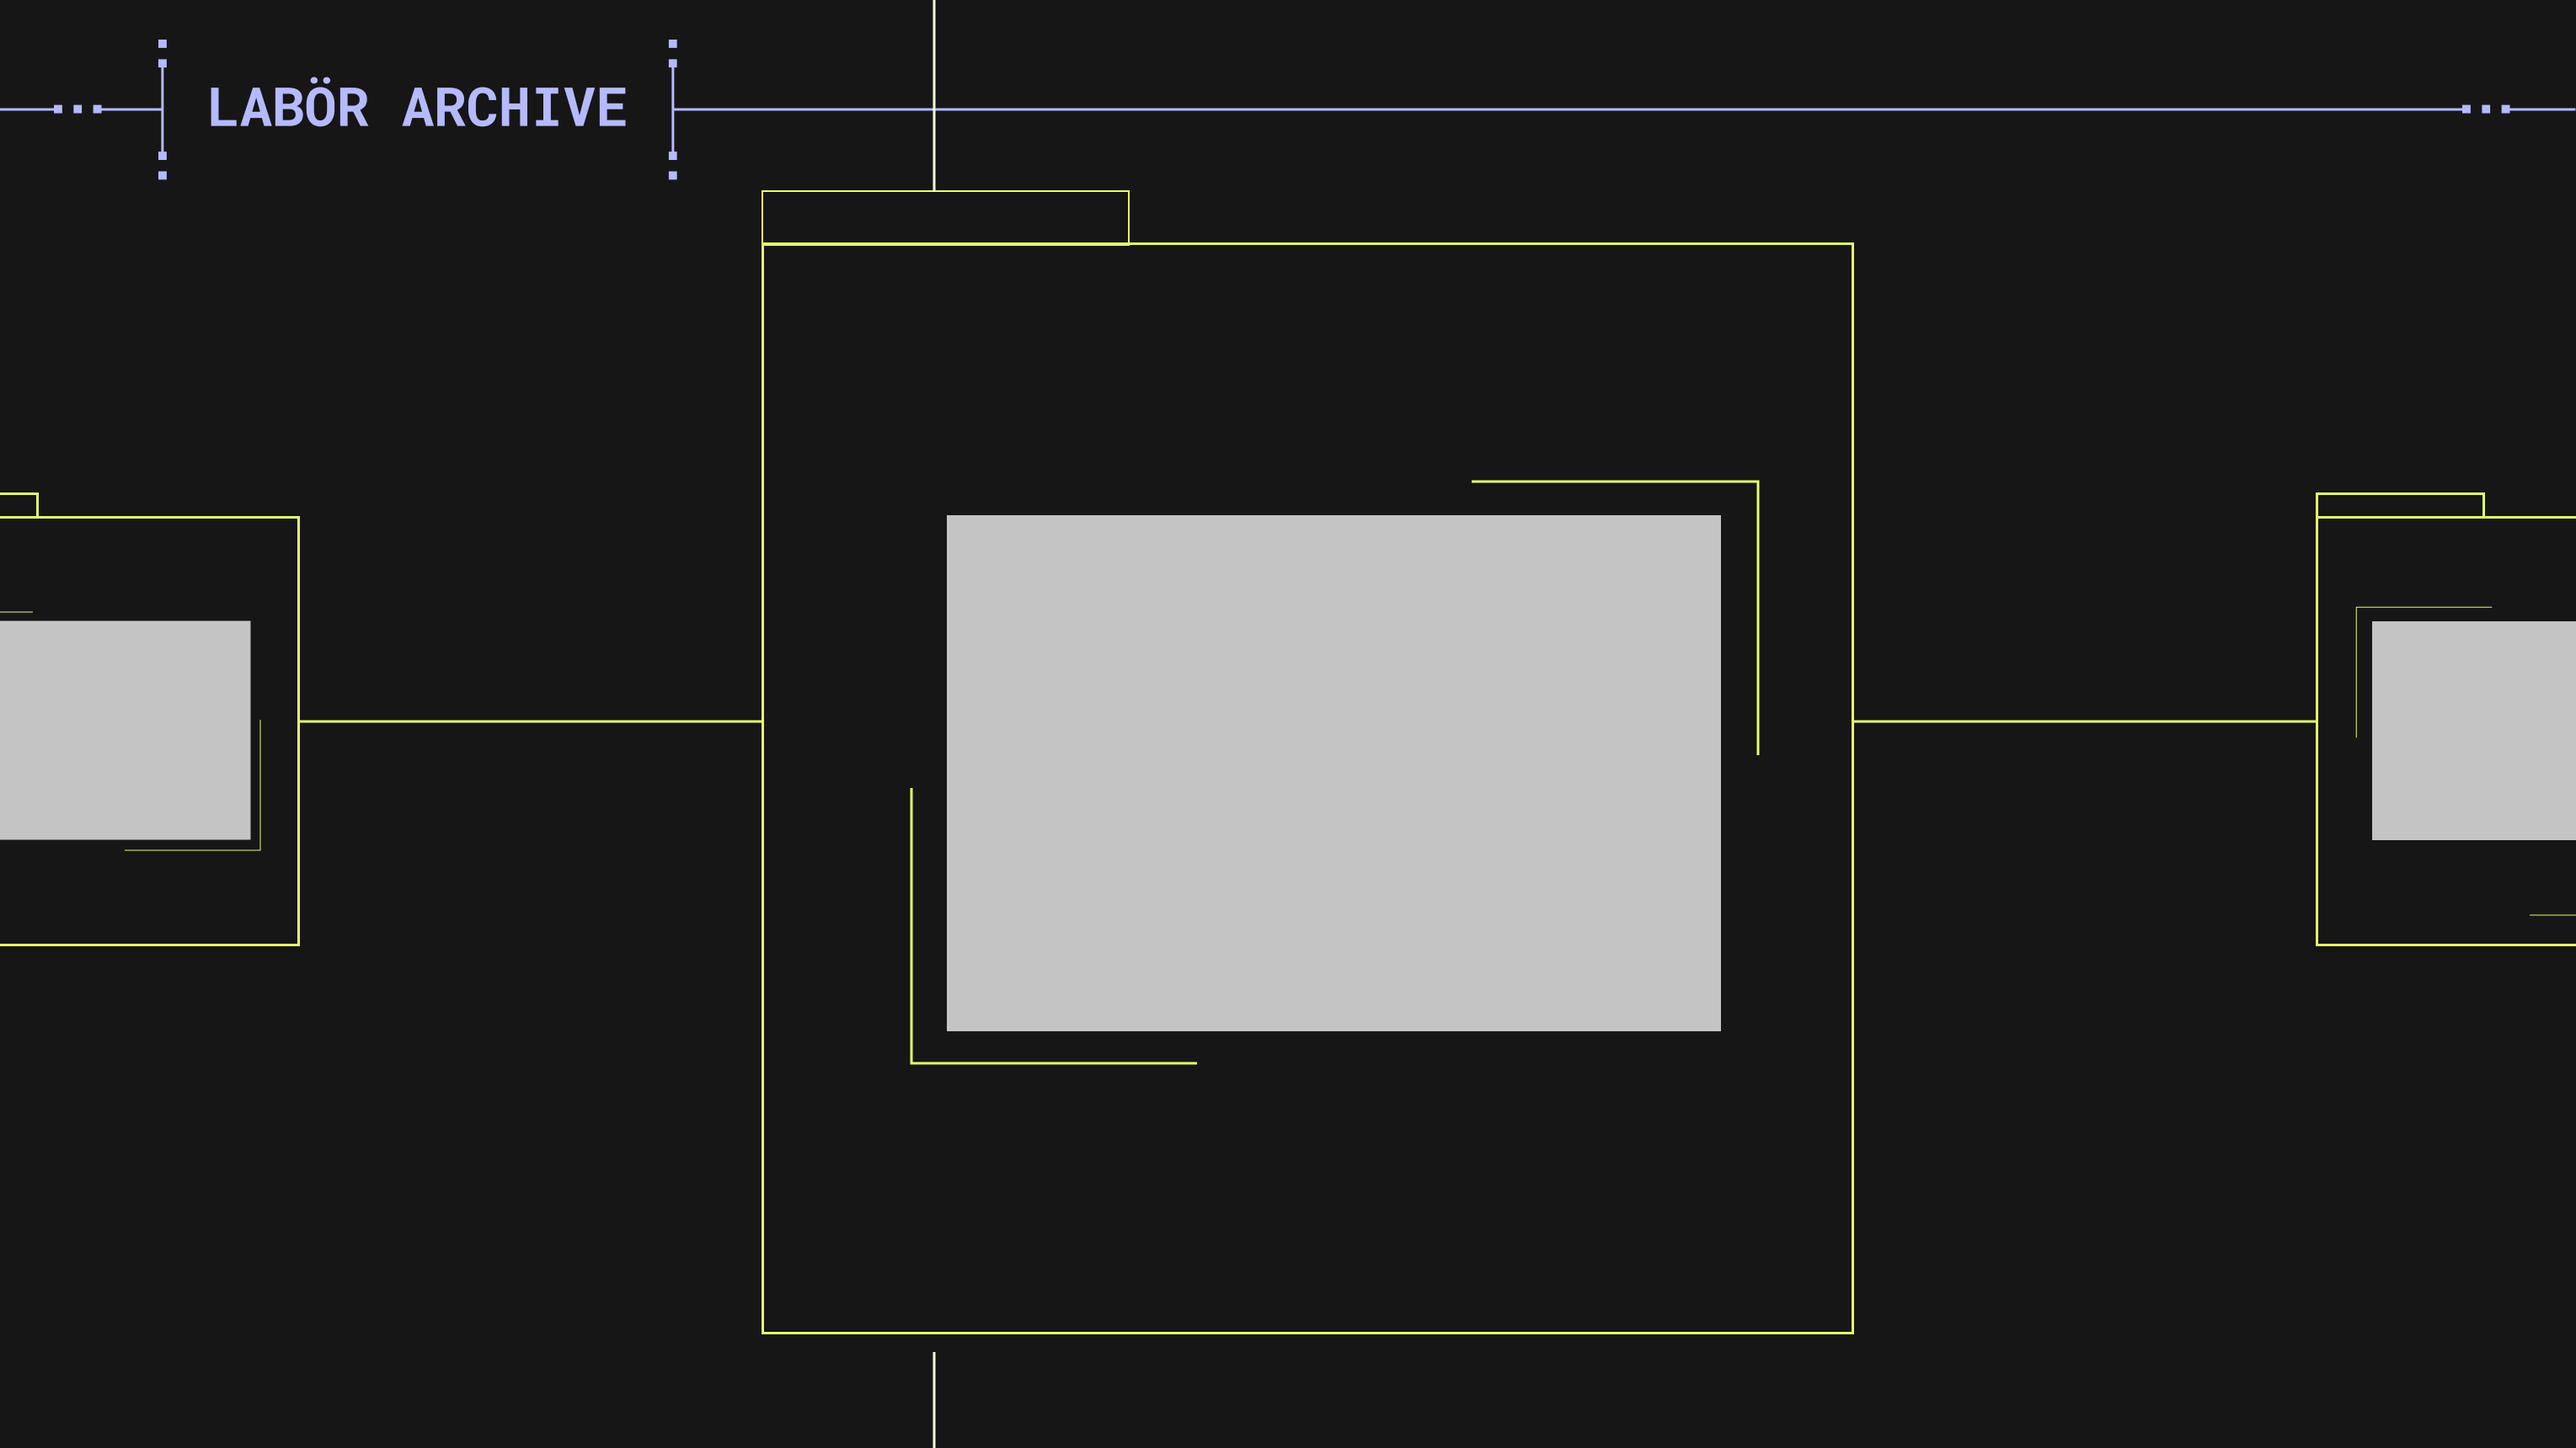
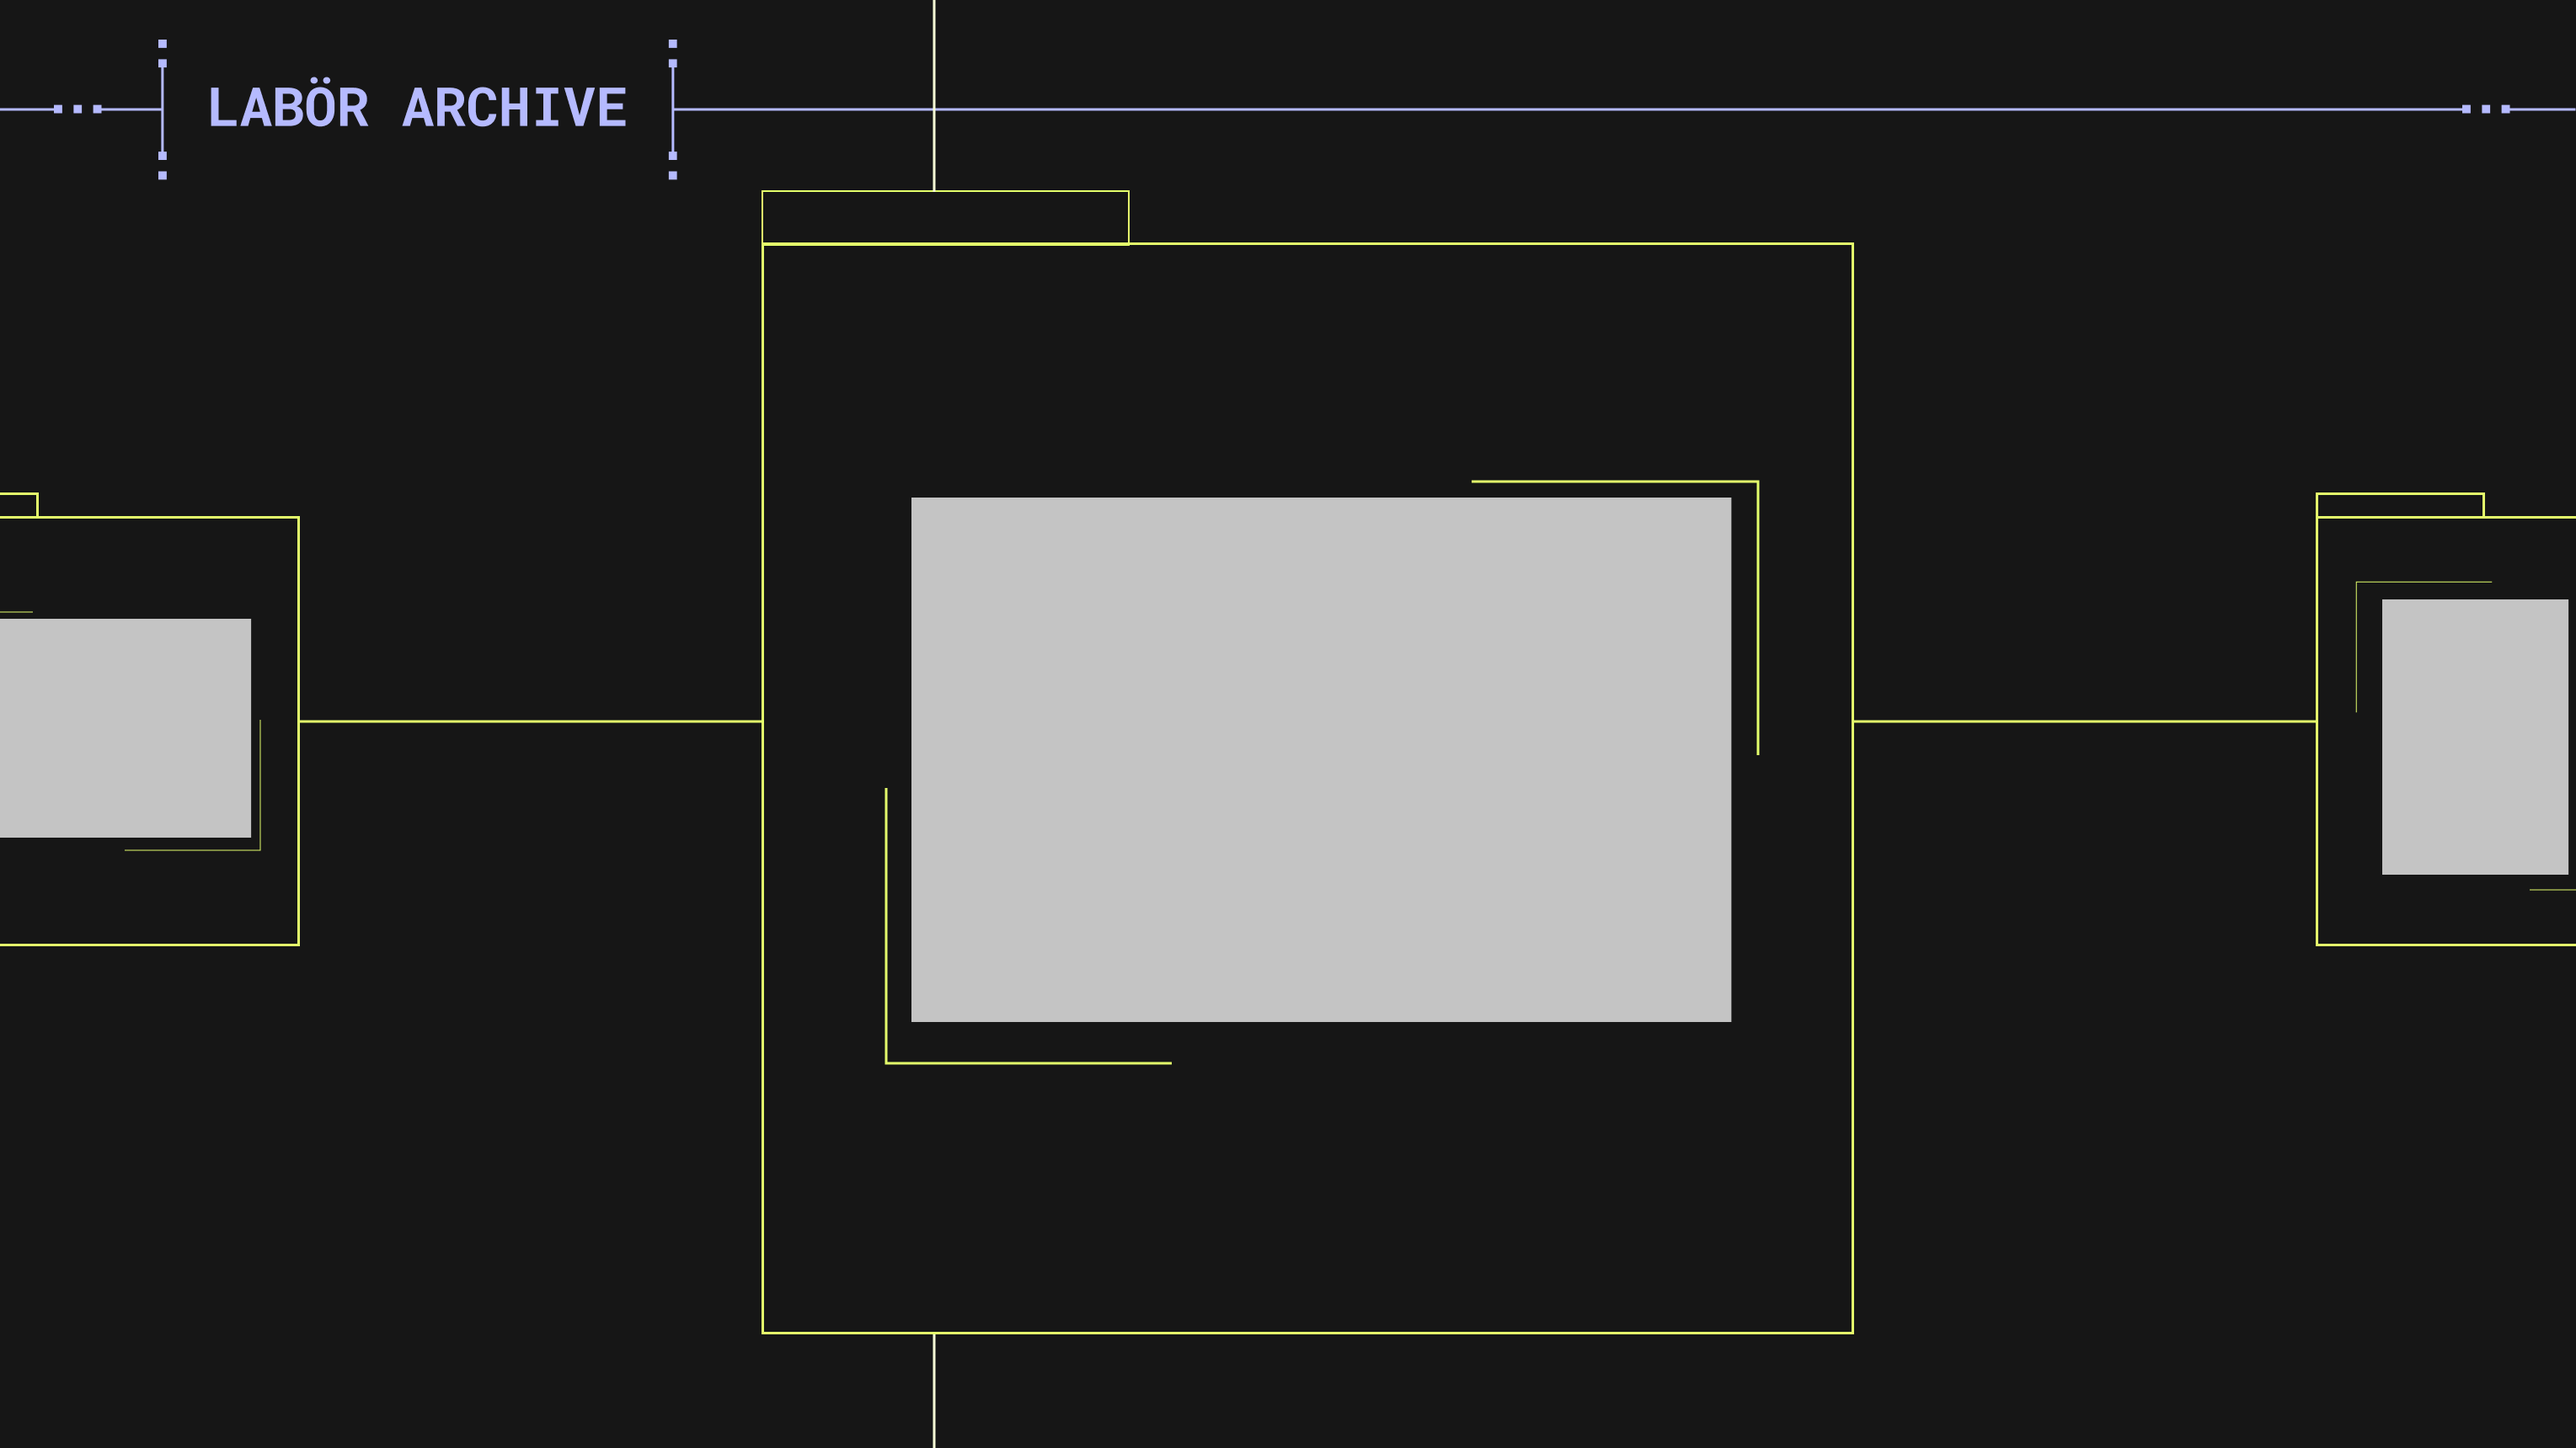
improve bg and examples

Changed region(s): [[0.3417, 0.339, 0.6835, 0.7395], [0.9009, 0.4006, 1.0, 0.6163]]

diff --git a/GUIManager.py b/GUIManager.py
@@ -9,6 +9,9 @@ BLACK = (22, 22, 22)
 YELLOW = (228, 255, 107)
 BG_PATH = "gallery/background.png"
 BG_NO_SIBLINGS_PATH = "gallery/background_no_siblings.png"
+BG_NO_PARENT_NO_CHILDREN_PATH = "gallery/background_no_parent_no_children.png"
+BG_NO_CHILDREN_PATH = "gallery/background_no_children.png"
+BG_NO_PARENT_PATH = "gallery/background_no_parent.png"
 INSTRUCTIONS_PATH = "gallery/instructions.png"
 IDLE_TIMEOUT_SECONDS = 60
 
@@ -17,8 +20,14 @@ class GUIManager:
     def __init__(self, gallery_manager, arduino_controller=None, camera_manager=None):
         self.gallery_manager = gallery_manager
         self.window_width, self.window_height = (None, None)
+
+        # bg
         self.background = None
         self.background_no_siblings = None
+        self.background_no_children = None
+        self.background_no_parent_no_children = None
+        self.background_no_parent = None
+
         self.instructions = None
         self.screen = None
         self.running = True
@@ -36,9 +45,16 @@ class GUIManager:
         self.screen = pygame.display.set_mode((self.window_width, self.window_height), pygame.RESIZABLE)
         pygame.display.set_caption("Labör Archive")
 
+        # Load images
         self.background = self._load_image(BG_PATH, scale=(self.window_width, self.window_height))
         self.background_no_siblings = self._load_image(BG_NO_SIBLINGS_PATH,
                                                        scale=(self.window_width, self.window_height))
+        self.background_no_parent_no_children = self._load_image(BG_NO_PARENT_NO_CHILDREN_PATH,
+                                                                 scale=(self.window_width, self.window_height))
+        self.background_no_children = self._load_image(BG_NO_CHILDREN_PATH,
+                                                       scale=(self.window_width, self.window_height))
+        self.background_no_parent = self._load_image(BG_NO_PARENT_PATH,
+                                                        scale=(self.window_width, self.window_height))
         self.instructions = self._load_image(INSTRUCTIONS_PATH, scale=(self.window_width, self.window_height))
 
         while self.running:
@@ -76,18 +92,18 @@ class GUIManager:
                     self.running = False
 
                 # Remove when joystick is implemented
-                # if event.key == pygame.K_SPACE:
-                #     self.on_button_press("SAVE")
-                # if event.key == pygame.K_CAPSLOCK:
-                #     self.on_button_press("CONNECT")
-                # if event.key == pygame.K_UP:
-                #     self.on_joystick_move('UP')
-                # if event.key == pygame.K_DOWN:
-                #     self.on_joystick_move('DOWN')
-                # if event.key == pygame.K_LEFT:
-                #     self.on_joystick_move('LEFT')
-                # if event.key == pygame.K_RIGHT:
-                #     self.on_joystick_move('RIGHT')
+                if event.key == pygame.K_SPACE:
+                    self.on_button_press("SAVE")
+                if event.key == pygame.K_CAPSLOCK:
+                    self.on_button_press("CONNECT")
+                if event.key == pygame.K_UP:
+                    self.on_joystick_move('UP')
+                if event.key == pygame.K_DOWN:
+                    self.on_joystick_move('DOWN')
+                if event.key == pygame.K_LEFT:
+                    self.on_joystick_move('LEFT')
+                if event.key == pygame.K_RIGHT:
+                    self.on_joystick_move('RIGHT')
 
     def process_arduino_input(self, buttons_arduino_event):
         if buttons_arduino_event.get('joystick'):
@@ -131,10 +147,18 @@ class GUIManager:
         photo = self.gallery_manager.get_current_photo()
         prev_photo = self.gallery_manager.get_previous_photo()
         next_photo = self.gallery_manager.get_next_photo()
+        no_parent = not photo.parent
 
         # Draw background
         if not prev_photo and not next_photo:
             self.screen.blit(self.background_no_siblings, (0, 0))
+        elif len(photo.children) == 0:
+            if no_parent:
+                self.screen.blit(self.background_no_parent_no_children, (0, 0))
+            else:
+                self.screen.blit(self.background_no_children, (0, 0))
+        elif no_parent:
+            self.screen.blit(self.background_no_parent, (0, 0))
         else:
             self.screen.blit(self.background, (0, 0))
 
@@ -157,10 +181,10 @@ class GUIManager:
                 self.arduino_controller.send_led_states(directions)
 
         if prev_photo and next_photo:
-            self.draw_photo(prev_photo.file_path, x=-35, y=310, img_width=159, img_height=110)
-            self.draw_photo(next_photo.file_path, x=1180, y=310, img_width=159, img_height=110)
+            self.draw_photo(prev_photo.file_path, x=-34, y=308, img_width=159, img_height=111)
+            self.draw_photo(next_photo.file_path, x=1180, y=298, img_width=190, img_height=140)
 
-    def draw_photo(self, path, x=470, y=257, img_width=390, img_height=260):
+    def draw_photo(self, path, x=450, y=247, img_width=412, img_height=275):
         if not os.path.exists(path):
             return
         photo_img = pygame.image.load(path)

diff --git a/main.py b/main.py
@@ -6,9 +6,9 @@ from gallery.GalleryManager import GalleryManager
 if __name__ == '__main__':
     gallery_manager = GalleryManager()
     camera_manager = CameraManager()
-    arduino_controller = ArduinoController()
+    # arduino_controller = ArduinoController()
     gui = GUIManager(gallery_manager=gallery_manager,
-                     arduino_controller=arduino_controller,
+                     # arduino_controller=arduino_controller,
                      camera_manager=camera_manager
                      )
     gui.start()
